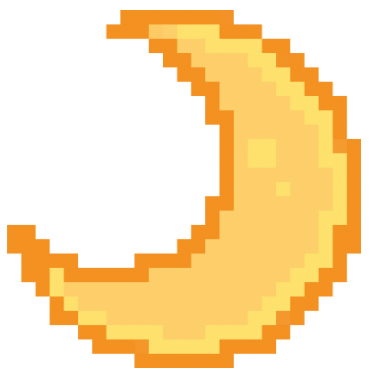
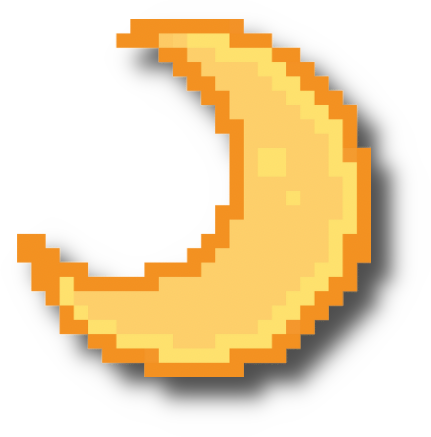
added shadows to sun moon buttons

diff --git a/style.css b/style.css
@@ -55,7 +55,7 @@ h2 {
 }
 
 .night_button_container {
-    right:17%;
+    right: 15%;
 }
 
 a > img {
